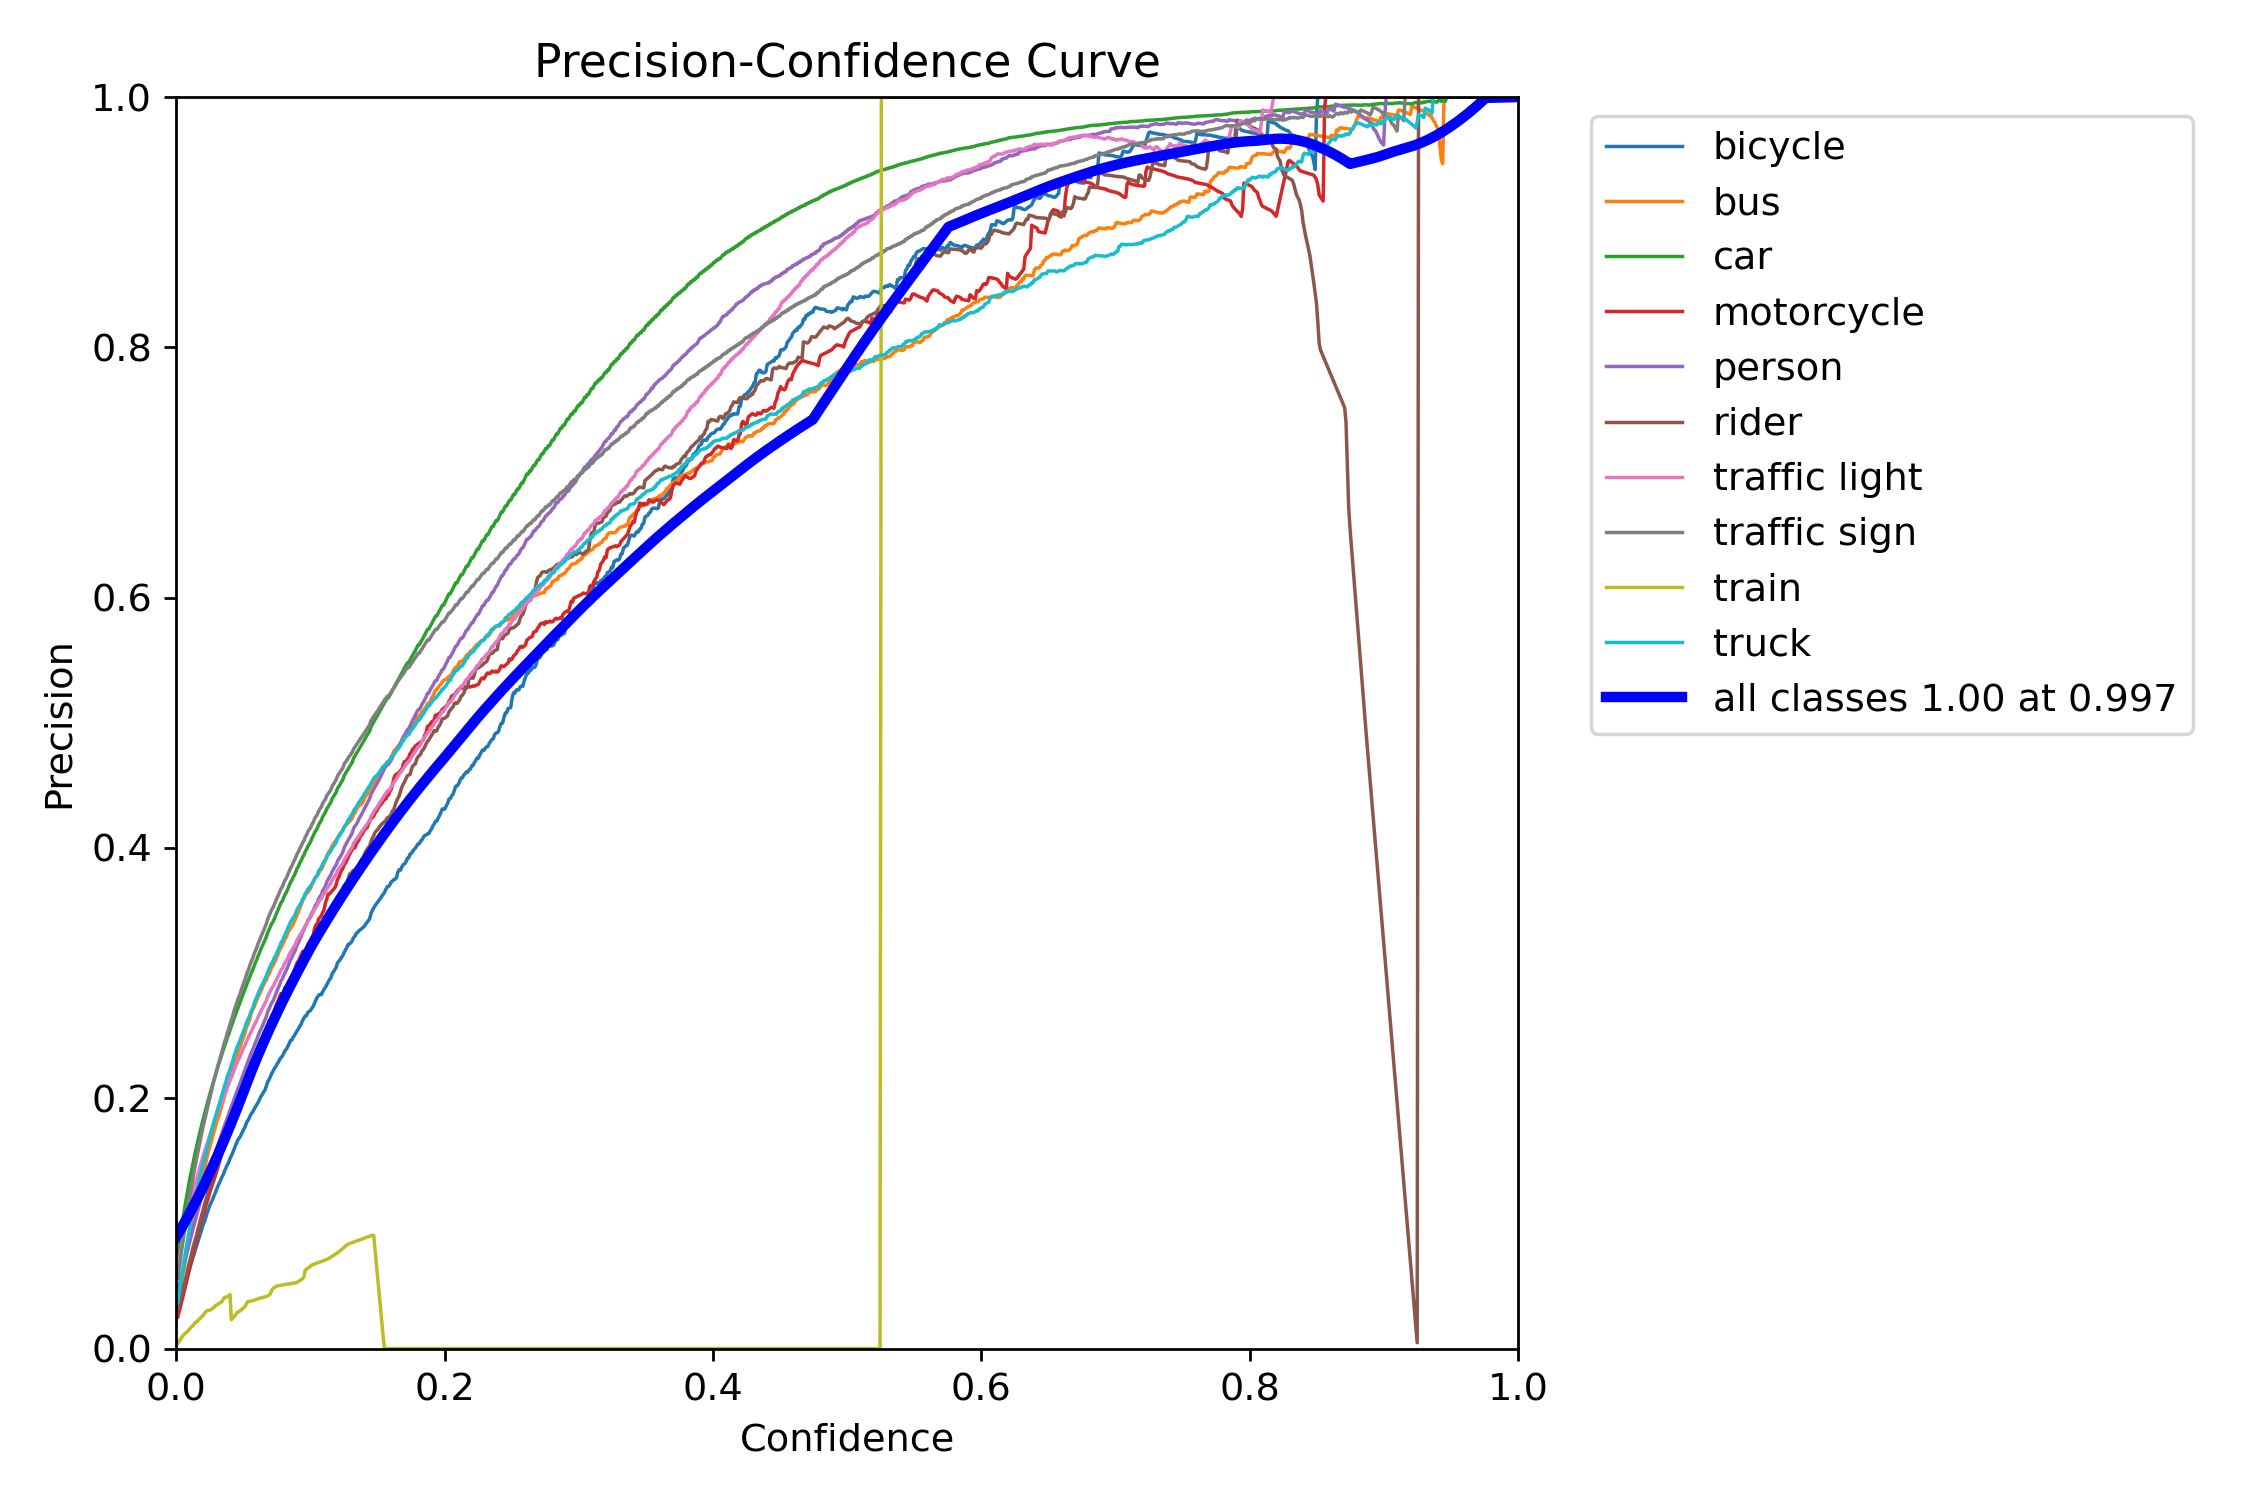
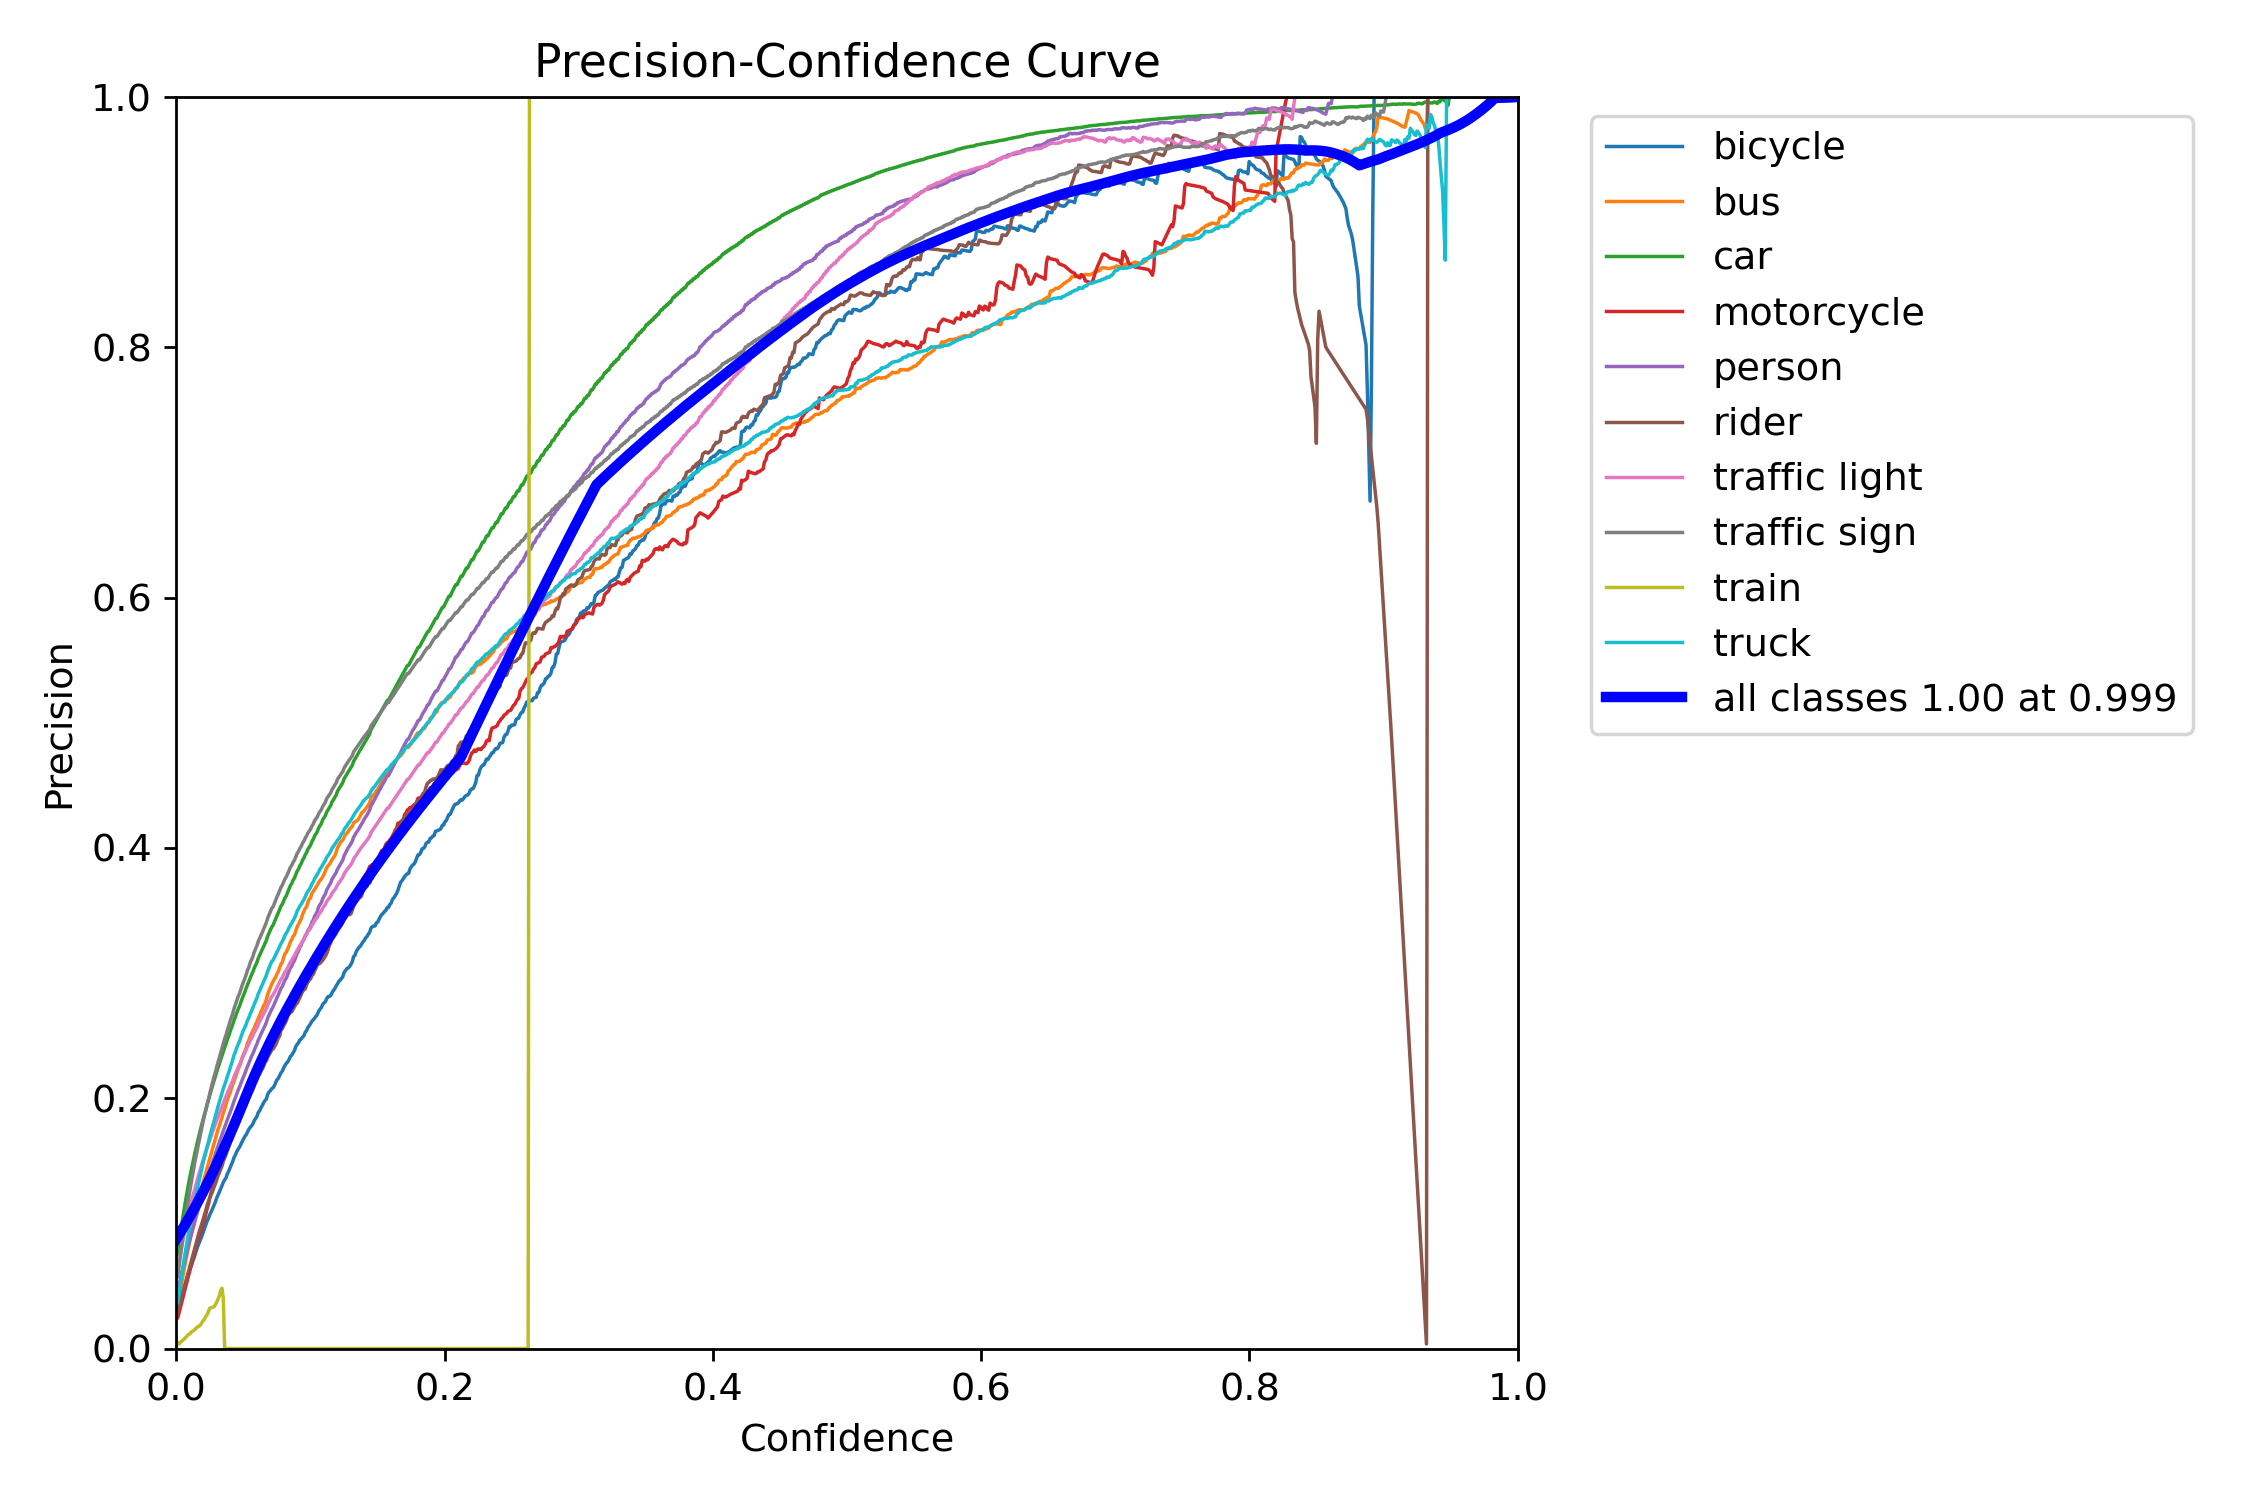
Add training files for yolo11s using 2 datasets at once

Changed region(s): [[0.0622, 0.0613, 0.6533, 0.8893], [0.1244, 0.828, 0.1556, 0.8587]]

diff --git a/model_infer.py b/model_infer.py
@@ -2,19 +2,19 @@ from ultralytics import YOLO
 
 def main():
 
-    # model = YOLO("/home/yanjiaqi/own_ultralytics/ultralytics/my_training_runs/rtdetrl_bdd100k_150_orig_lbl_finetune/weights/best.pt")          #Change this to your custom trained model path
+    model = YOLO("/home/yanjiaqi/own_ultralytics/ultralytics/my_training_runs/yolo11s_bdd100k_150_orig_lbl_HIGH_IMGSZE_two_datasets/weights/best.pt")          #Change this to your custom trained model path
 
-    # #Evaluating model inference performance    
-    # results = model.predict(
-    #     source = "data/images/Kyoto walk.mp4",                                     #Chuck whatever file you want for model inference here. Can be images and video
-    #     conf = 0.75,                                                                    #confidence cutoff point
-    #     save = True,
-    #     project = "my_test_runs/rtdetrl_infer",                                         #Main folder name path
-    #     name = "rtdetrl_bdd100k_150_orig_lbl_finetune",                                               #Sub folder within main folder
-    #     show = True,                                                                   #Display vid during inference. Default is False
-    #     verbose = False,                                                                #show progress. Default is True
-    #     exist_ok = True                                                                 #Overrides if the same inferred file already exists in directory
-    # ) 
+    #Evaluating model inference performance    
+    results = model.predict(
+        source = "/home/yanjiaqi/own_ultralytics/ultralytics/data/images/Tuen Mun Highway East Bound屯門公路東行 .mp4",                                     #Chuck whatever file you want for model inference here. Can be images and video
+        conf = 0.75,                                                                    #confidence cutoff point
+        save = True,
+        project = "my_test_runs/yolo11s_infer",                                         #Main folder name path
+        name = "yolo11s_bdd100k_150_orig_lbl_HIGH_IMGSZE_two_datasets",                                               #Sub folder within main folder
+        show = True,                                                                   #Display vid during inference. Default is False
+        verbose = False,                                                                #show progress. Default is True
+        exist_ok = True                                                                 #Overrides if the same inferred file already exists in directory
+    ) 
     
     #Evaluating validation metrics 
     # metrics = model.val()
@@ -25,19 +25,19 @@ def main():
 
     # results[0].show()                                 #uses matplotlib
     #"/home/yanjiaqi/own_ultralytics/ultralytics/my_training_runs/yolo11m_bdd100k_150_orig_lbl2_finetune2"
-    model = YOLO("/home/yanjiaqi/own_ultralytics/ultralytics/my_training_runs/rtdetrl_bdd100k_150_orig_lbl/weights/best.pt")
+    # model = YOLO("rtdetr-l.pt")
 
-    model.export(
-        format = "onnx",
-        nms = True,
-        data = "custom.yaml"
-    )
+    # model.export(
+    #     format = "onnx",
+    #     nms = True,
+    #     data = "custom.yaml"
+    # )
 
-    model.export(
-        format = "tflite",
-        nms = True,
-        data = "custom.yaml"
-    )
+    # model.export(
+    #     format = "tflite",
+    #     nms = True,
+    #     data = "custom.yaml"
+    # )
 
 
 if __name__ == "__main__":

diff --git a/model_training.py b/model_training.py
@@ -117,7 +117,7 @@ def main():
         hsv_s= 0.5,    # Randomly adjust saturation - helps with lighting changes
         hsv_v= 0.4,    # HSV value (brightness) augmentation fraction
         translate= 0.05,  # Randomly translate images by up to 10%
-        scale= 0.3,    # Randomly scale images by up to 50% - crucial for size variance
+        scale= 0.4,    # Randomly scale images by up to 50% - crucial for size variance
         shear= 0.0,    # Shear is less critical for vehicles, can keep low
         flipud= 0.0,   # Flip up-down (usually not logical for traffic scenes)
         fliplr= 0.5,  # Flip left-right - very logical and effective
@@ -130,14 +130,14 @@ def main():
         optimizer = 'AdamW',
         momentum = 0.9,
         project = "my_training_runs",
-        name = "yolo11s_bdd100k_150_orig_lbl_HIGH_IMGSZE",
+        name = "yolo11s_bdd100k_150_orig_lbl_HIGH_IMGSZE_two_datasets",
         freeze = 10, 
         save_period = 20, #Saves a checkpoint every 20 epochs 
-        box = 7.5,# (float) box loss gain
-        cls = 0.5, # (float) classification loss gain
-        dfl = 1.5, # (float) distribution focal loss gain
+        box = 7.0,# (float) box loss gain
+        cls = 1.5, # (float) classification loss gain
+        dfl = 2.0, # (float) distribution focal loss gain
         save = True,
-        exist_ok = True #overrides if folder with same name already exists. REMEMBER TO CHANGE TO FALSE WHEN DOING ACTUAL NEW TRAINING
+        exist_ok = False #overrides if folder with same name already exists. REMEMBER TO CHANGE TO FALSE WHEN DOING ACTUAL NEW TRAINING
 
     )
     
